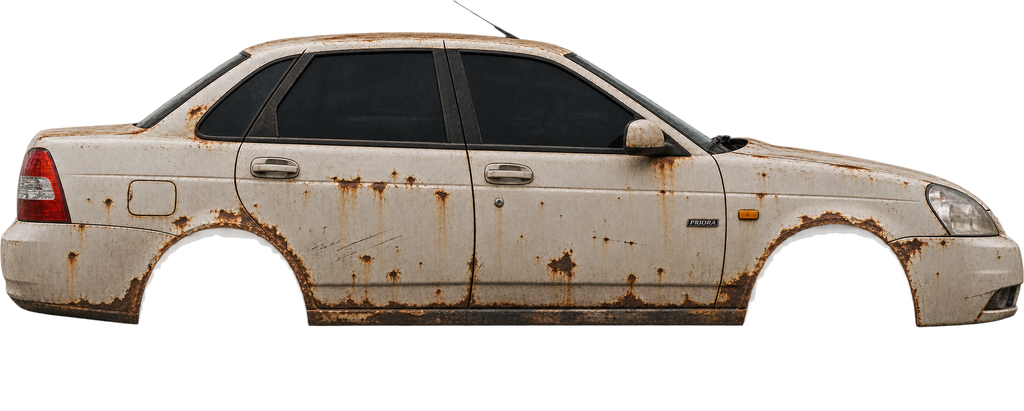
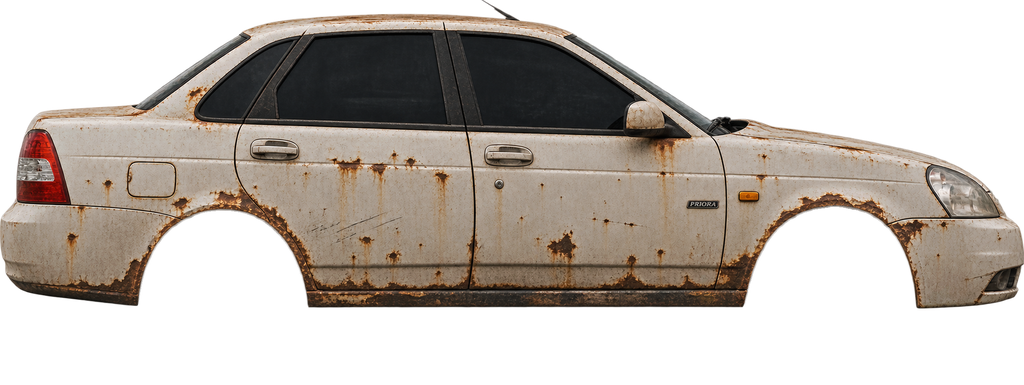
feat(ui): Song Plus, Yuan Up, Spark and Lixiang skins
skin.py drops soft shadows under the sill, keeps see-through glass inside
the silhouette and centres wheels on the deep part of the arch.

diff --git a/Source/RoadView.cpp b/Source/RoadView.cpp
@@ -79,23 +79,31 @@ const std::array<CarInfo, RoadView::numCars> carInfo { {
     { "car_black_png", "Саб и тонировка", 0xff1b1c21, true, 0.0f },
     // Приора
     { "car_rust_png", "Low-res", 0xffb7a688, true, 0.0f,
-      { 0.2178f, 0.8106f, 0.0821f, 0.0819f, { 0.94f, 0.2f }, { 0.04f, 0.215f }, { 0.73f, 0.193f }, { 0.05f, 0.105f } } },
+      { 0.2171f, 0.8121f, 0.0813f, 0.0814f, { 0.94f, 0.2f }, { 0.04f, 0.215f }, { 0.73f, 0.193f }, { 0.05f, 0.105f } } },
     // Жигули
     { "car_red_png", "Дисторшн", 0xffb3202a, true, 0.2475f,
-      { 0.2274f, 0.838f, 0.083f, 0.0831f, { 0.978f, 0.198f }, { 0.018f, 0.2f }, { 0.937f, 0.208f }, { 0.05f, 0.085f } } },
+      { 0.2277f, 0.8369f, 0.0825f, 0.0823f, { 0.978f, 0.198f }, { 0.018f, 0.2f }, { 0.937f, 0.208f }, { 0.05f, 0.085f } } },
     { "car_green_png", "Питчер", 0xff1f8a3b, false, 0.0f },
     { "car_orange_png", "Форманта", 0xfff07a13, false, 0.0f },
-    { "car_purple_png", "Гармонайзер", 0xff7a2bbf, true, 0.35f },
+    // Спарк, салатовый (был фиолетовым)
+    { "car_purple_png", "Гармонайзер", 0xff93c02e, true, 0.35f,
+      { 0.1566f, 0.8265f, 0.098f, 0.098f, { 0.923f, 0.249f }, { 0.059f, 0.298f }, { 0.734f, 0.22f }, { 0.04f, 0.12f } } },
     { "car_blue_png", "Хорус", 0xff2456c8, true, 0.128f },
-    { "car_pink_png", "Фэйзер", 0xffff5fa2, false, 0.0f },
-    { "car_silver_png", "Дилей", 0xffa3acb6, true, 0.15f },
-    { "car_grey_png", "Реверб", 0xff4d545c, true, 0.165f },
+    // Лисян: повторитель в зеркале
+    { "car_pink_png", "Фэйзер", 0xffff5fa2, false, 0.0f,
+      { 0.216f, 0.8189f, 0.0888f, 0.0889f, { 0.95f, 0.205f }, { 0.06f, 0.25f }, { 0.665f, 0.255f }, { 0.04f, 0.1f } } },
+    // BYD Song Plus: повторитель в зеркале
+    { "car_silver_png", "Дилей", 0xffa3acb6, true, 0.15f,
+      { 0.2124f, 0.814f, 0.0883f, 0.0882f, { 0.94f, 0.2f }, { 0.06f, 0.25f }, { 0.67f, 0.27f }, { 0.04f, 0.1f } } },
+    // BYD Yuan Up: повторитель в зеркале
+    { "car_grey_png", "Реверб", 0xff4d545c, true, 0.165f,
+      { 0.1928f, 0.8344f, 0.0916f, 0.0914f, { 0.95f, 0.225f }, { 0.05f, 0.25f }, { 0.675f, 0.3f }, { 0.04f, 0.1f } } },
     // Zeekr 007: повторитель в зеркале
     { "car_yellow_png", "Гейт", 0xfff2c230, false, 0.0f,
-      { 0.2022f, 0.8081f, 0.0869f, 0.0871f, { 0.94f, 0.186f }, { 0.06f, 0.212f }, { 0.645f, 0.232f }, { 0.05f, 0.09f } } },
+      { 0.2024f, 0.8086f, 0.0873f, 0.0872f, { 0.94f, 0.186f }, { 0.06f, 0.212f }, { 0.645f, 0.232f }, { 0.05f, 0.09f } } },
     // Нексия
     { "car_white_png", "Эквалайзер", 0xffeef0f2, true, 0.1667f,
-      { 0.2222f, 0.8143f, 0.0799f, 0.0802f, { 0.947f, 0.183f }, { 0.038f, 0.205f }, { 0.737f, 0.197f }, { 0.05f, 0.1f } } },
+      { 0.2234f, 0.8154f, 0.0796f, 0.0796f, { 0.947f, 0.183f }, { 0.038f, 0.205f }, { 0.737f, 0.197f }, { 0.05f, 0.1f } } },
 } };
 
 const Geo& geo (int car) { return carInfo[static_cast<size_t> (car)].geo; }

diff --git a/Tools/skin.py b/Tools/skin.py
@@ -11,9 +11,13 @@ im = Image.open(src).convert('RGBA')
 a = np.array(im)[..., 3]
 
 # Кузов — самый большой непрозрачный кусок, заливкой от середины самой плотной строки.
-mask = Image.fromarray(((a > 48) * 255).astype('uint8')).copy()
-ImageDraw.floodfill(mask, (a.shape[1] // 2, int(np.argmax((a > 48).sum(1)))), 128)
+mask = Image.fromarray(((a > 128) * 255).astype('uint8')).copy()
+ImageDraw.floodfill(mask, (a.shape[1] // 2, int(np.argmax((a > 128).sum(1)))), 128)
 keep = np.array(mask) == 128
+# Дырки внутри силуэта (стёкла пожиже) — тоже кузов: снаружи только то, что достаёт до угла картинки.
+outside = Image.fromarray(np.where(keep, 0, 255).astype('uint8')).copy()
+ImageDraw.floodfill(outside, (0, 0), 64)
+keep = np.array(outside) != 64
 near = np.array(Image.fromarray((keep * 255).astype('uint8')).filter(ImageFilter.MaxFilter(5))) > 0
 arr = np.array(im)
 arr[..., 3] = np.where(near, a, 0) # полупрозрачные края и стёкла у кузова остаются
@@ -34,12 +38,14 @@ while x < W:
             l, r = s, x - 1
             while l > 0 and open_[l - 1]: l -= 1
             while r < W - 1 and open_[r + 1]: r += 1
-            arches.append((l, r, bottom[s:x].min()))
+            # центр — по глубокой части (пологий бампер не тянет арку вбок), радиус — до ближнего края
+            c = (s + x - 1) / 2
+            arches.append((c, min(c - l, r - c), bottom[s:x].min()))
     x += 1
 assert len(arches) == 2, f'нашлось арок: {len(arches)}'
 
-# Колесо: диаметр = ширина арки, зазор сверху как у старого кузова; низ колеса = низ картинки.
-R = sum(r - l for l, r, _ in arches) / 4
+# Колесо: вписано в арку, зазор сверху как у старого кузова; низ колеса = низ картинки.
+R = sum(h for _, h, _ in arches) / 2
 cy = max(t for *_, t in arches) + 0.0095 * W + R
 outH = int(round(max(H, cy + R)))
 canvas = Image.new('RGBA', (W, outH))
@@ -47,5 +53,4 @@ canvas.paste(body, (0, 0))
 canvas.resize((1024, round(outH * 1024 / W)), Image.LANCZOS).save(dst)
 
 u = lambda v: f'{v / W:.4f}f'
-(l0, r0, _), (l1, r1, _) = arches
-print(f'{{ {u((l0 + r0) / 2)}, {u((l1 + r1) / 2)}, {u(outH - cy)}, {u(R)}, <head>, <tail>, <side>, <exhaust> }}')
+print(f'{{ {u(arches[0][0])}, {u(arches[1][0])}, {u(outH - cy)}, {u(R)}, <head>, <tail>, <side>, <exhaust> }}')

diff --git a/BACKLOG.md b/BACKLOG.md
@@ -27,7 +27,8 @@
 
 ### ART-03 — Свой кузов у каждой машины `[x]`
 Колёса (позиция, радиус), фара, стоп, повторитель и выхлоп — свои у каждой машины. Тонировка и ржавчина обрезаются
-по силуэту кузова. Новые кузова: белая — Нексия, жёлтая — Zeekr 007, красная — Жигули, ржавая — Приора.
+по силуэту кузова. Новые кузова: белая — Нексия, жёлтая — Zeekr 007, красная — Жигули, ржавая — Приора, серебряная — BYD Song Plus,
+серая — BYD Yuan Up, «фиолетовая» — салатовый Спарк, розовая — Лисян. Старые остались у чёрной, зелёной, оранжевой, синей.
 
 ### ART-01 — Свои фото кузова и колёс `[x]`
 Кузов, колёса, 12 перекрашенных машин, тонировка и ржавчина по новому кузову; координаты колёс и огней подогнаны.
